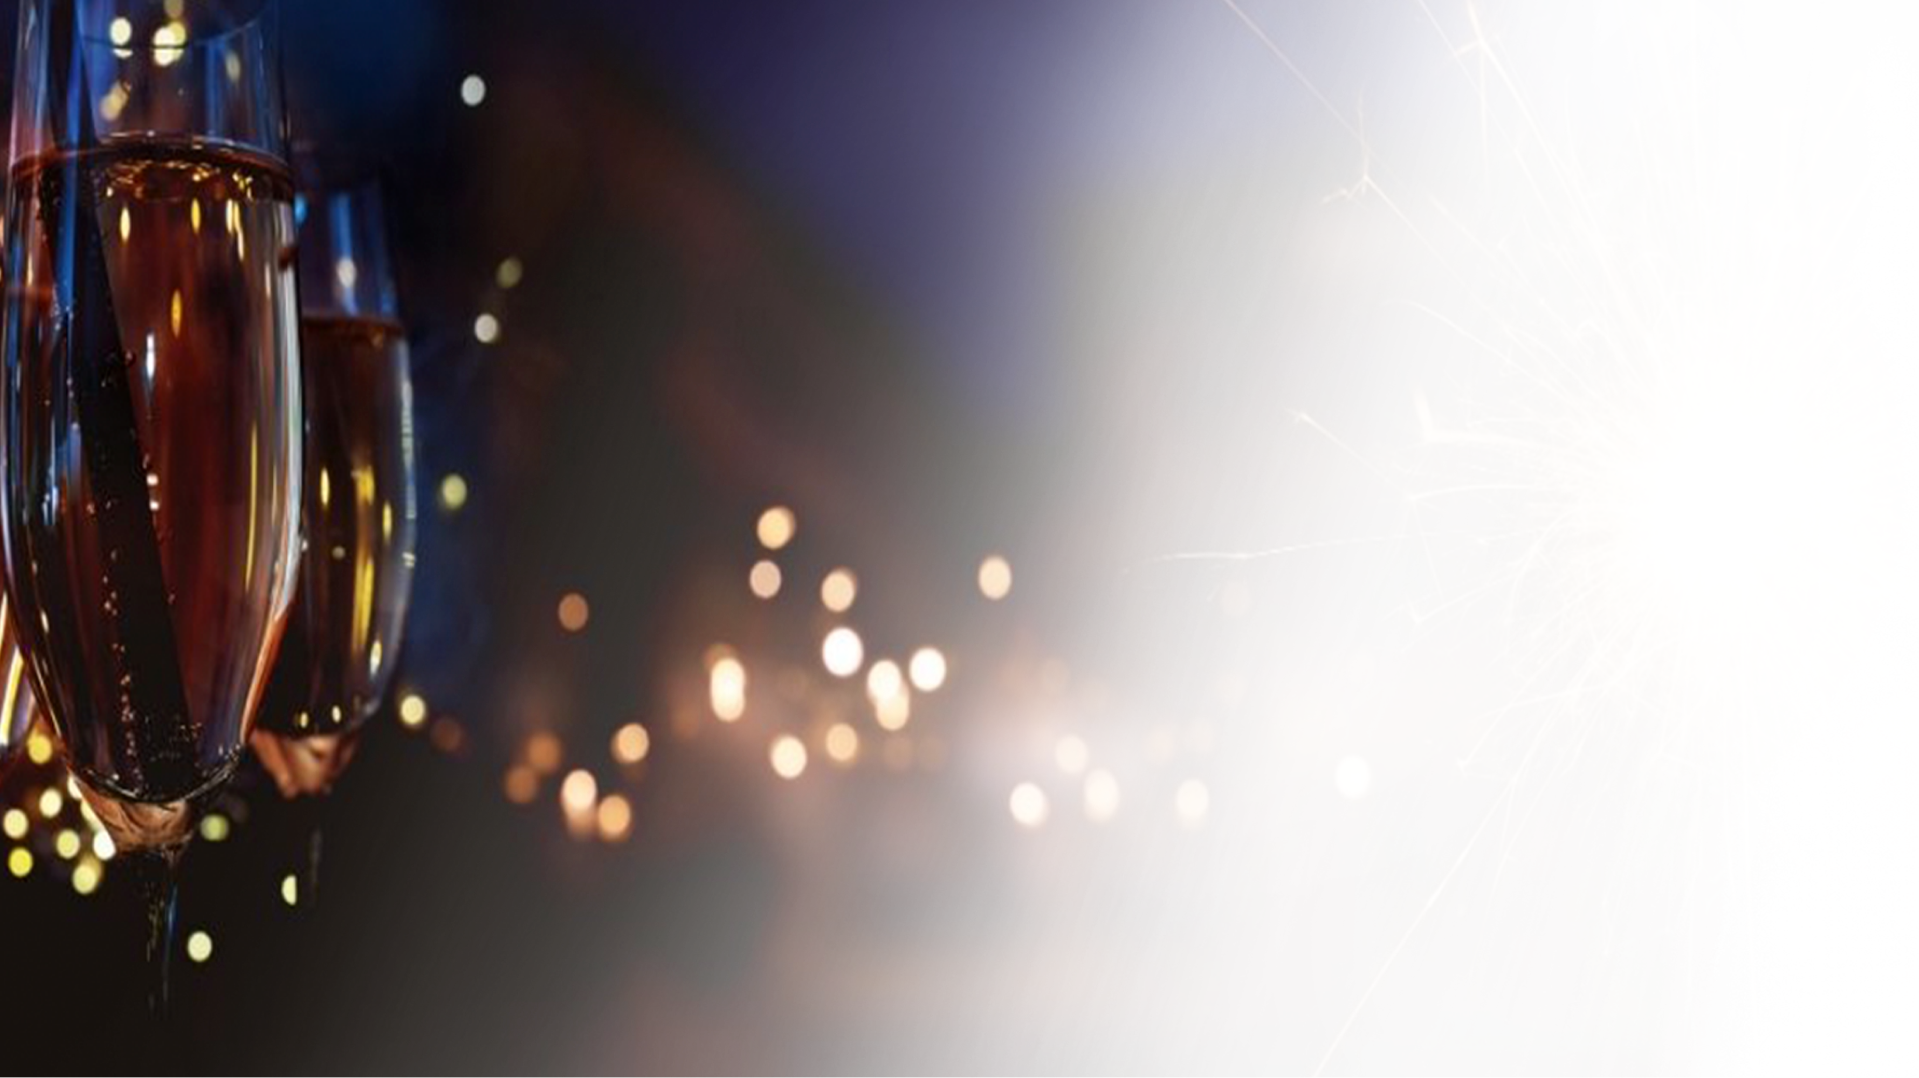
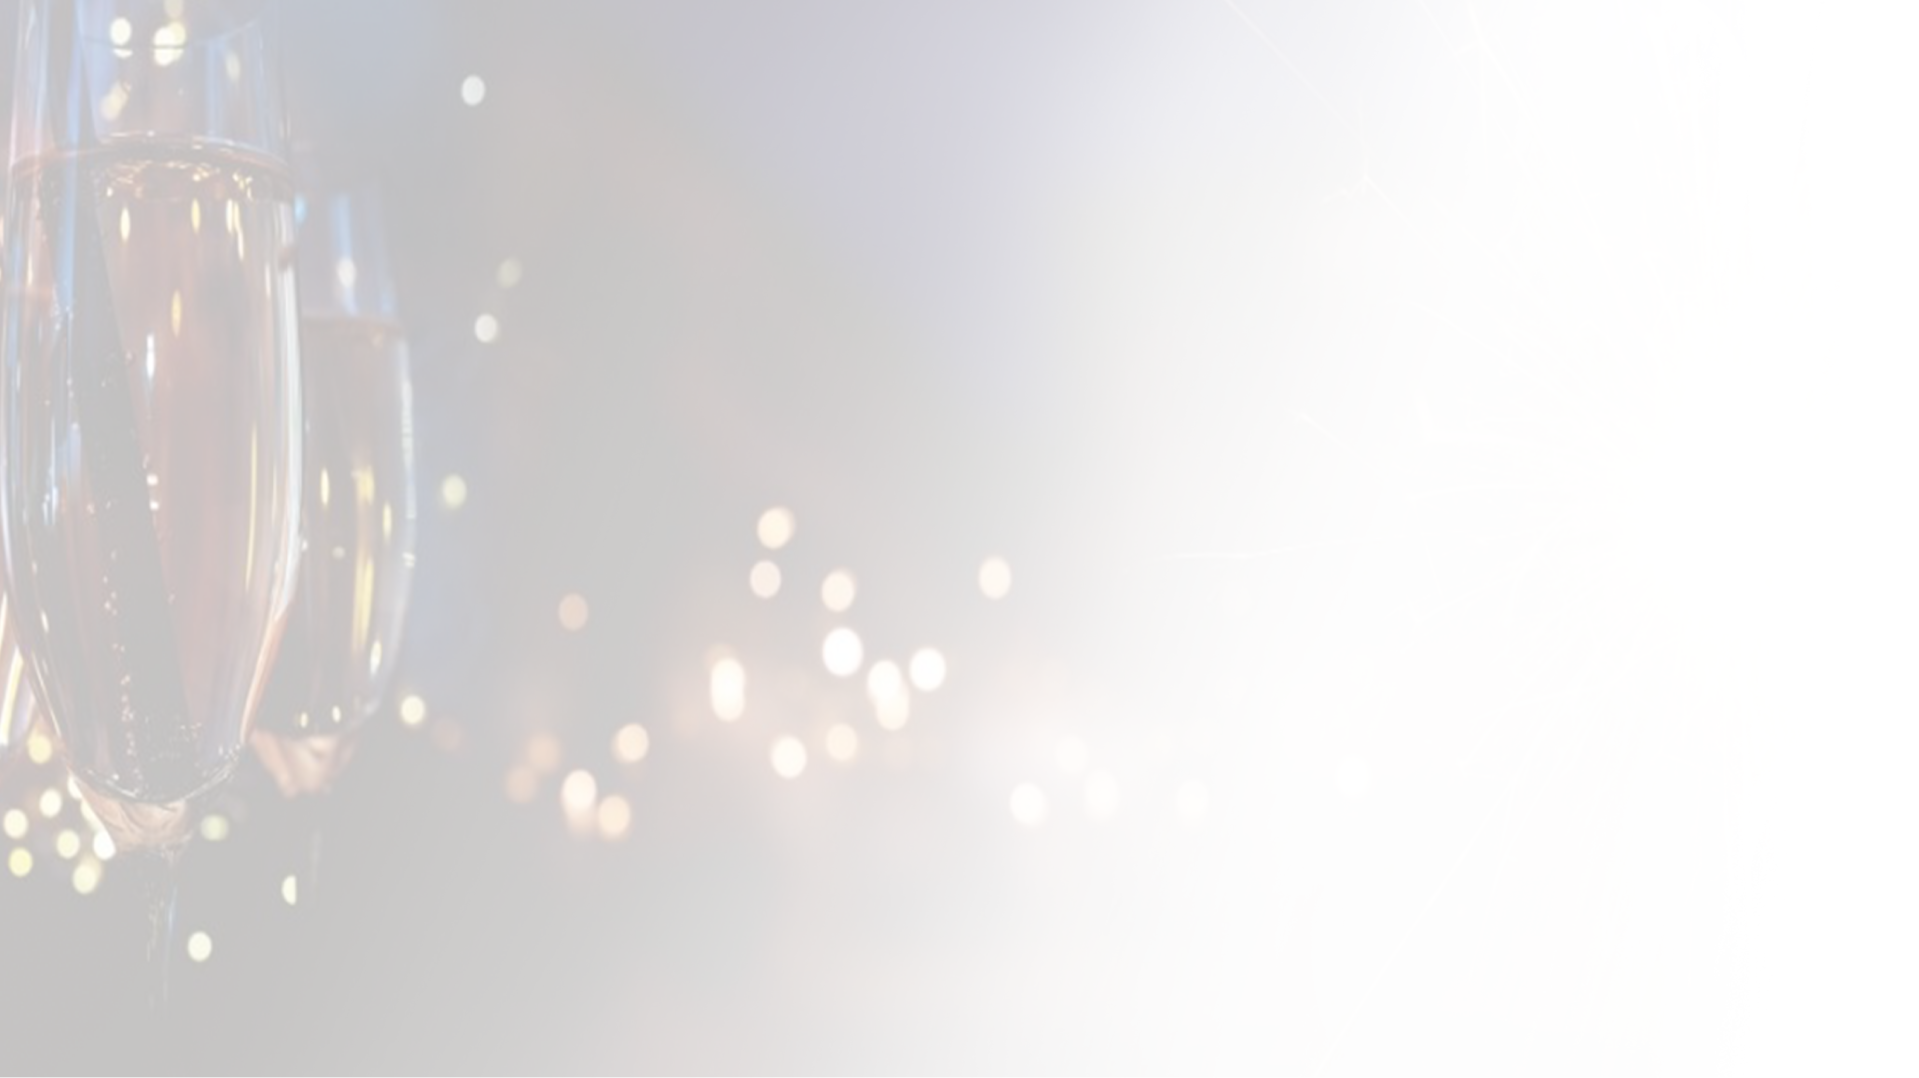
Update Gala

diff --git a/src/components/Gala/Gala.jsx b/src/components/Gala/Gala.jsx
@@ -1,62 +1,81 @@
-// import TicketGala from "../assets/forPages/ticketGala.png"
-import TicketGala from "../../assets/ticketGala.png"
-import iconLocalisation from "../../assets/iconLocalisation.svg"
-import iconWhatsapp from "../../assets/iconWhatsapp.svg"
-import iconTelephone from "../../assets/iconTelephone.svg"
 import bgImage from "../../assets/forPages/backgroundImage.png"
+import { FontAwesomeIcon } from "@fortawesome/react-fontawesome";
+import { faMapMarkerAlt } from "@fortawesome/free-solid-svg-icons";
+import { faWhatsapp } from "@fortawesome/free-brands-svg-icons";
+import { faPhone } from "@fortawesome/free-solid-svg-icons";
 
 
 
 const Gala = () => {
   return (
-    <div className="container mx-auto py-20 " style={{ backgroundImage: `url(${bgImage})` }}>
+    <div className="container mx-auto py-20 " style={{ 
+        backgroundImage: `url(${bgImage})` ,
+        backgroundSize: 'cover',
+        // backgroundBlendMode: 'darken',
+    }}>
+        
+        <h2 className="text-base sm:text-lg md:text-xl lg:text-2xl xl:text-3xl
+                text-customGreen text-center font-bold mb-4 sm:mb-8 underline">DINER DE GALA - REMISE DES PRIX</h2>
+
       <div className="flex flex-col md:flex-row">
-        <div className="w-full md:w-1/2">
-            <div className="flex justify-center mb-8">
-                <img
-                    src={TicketGala}
-                    alt=""
-                    className="rounded object-cover mb-8 md:mb-0 "
-                />
-            </div>
-        </div>
 
-        <div className="w-full md:w-1/2 flex justify-center">
+        <div className="w-full md:w-2/3 flex justify-center p-4">
             <div className="flex flex-col">
-                <h2 className="flex justify-center text-customGreen font-bold text-4xl mb-5">DINER DE GALA</h2>
-
-                <div className="flex justify-center mb-5">
+               
+                <div className="flex justify-start mt-4">
                     <span 
-                        className="bg-customGreen text-white text-3xl tracking-tight py-2 px-4 lg:items-start">
+                        className="bg-customGreen text-white tracking-tight py-2 px-4 lg:items-start
+                            text-base sm:text-lg md:text-xl lg:text-2xl xl:text-3xl
+                        ">
                         SAMEDI 30 NOVEMBRE 2024
                     </span>
                 </div>
 
-                <p className="flex justify-center text-customGreen font-bold text-4xl mb-5">À 20H PRÉCISES</p>
+                <p className="flex justify-start text-customGreen font-bold 
+                    text-base sm:text-lg md:text-xl lg:text-2xl xl:text-3xl mt-5
+                ">À 20H PRÉCISES</p>
 
-                <div className="flex flex-row justify-center">
-                    <div className="">
-                        <img src={iconLocalisation} alt="" className="" style={{width: 61, height: 61}} />
+                <div className="flex flex-row gap-2 items-center justify-start mt-6
+                    mx-auto max-w-full sm:max-w-md md:max-w-lg lg:max-w-1xl xl:max-w-1xl
+                ">
+                    <div className=" ">
+                        <FontAwesomeIcon icon={faMapMarkerAlt} color="black" size="2x" />
                     </div>
-                    <div className=" flex items-center">
-                        <h3 className="text-customBlack font-bold  " style={{fontSize: 24}}>SALLE DES FÊTES DE CHANT D’OISEAU, COTONOU, BÉNIN</h3>
+                    <div className=" ">
+                        <h3 className="text-base sm:text-lg md:text-xl lg:text-2xl xl:text-3xl 
+                        text-customBlack font-bold">SALLE DES FÊTES DE CHANT D’OISEAU, COTONOU, BÉNIN</h3>
                     </div>
                 </div>
 
-                <div className="flex justify-center mb-8">
-                    <h3 
-                        className="bg-customGreen text-customYellow text-center text-3xl tracking-tight py-2 px-4 cursor-pointer">
-                        COMMANDEZ VOS TICKETS
-                    </h3>
-                </div>
+                <div className="flex flex-row gap-2 items-center justify-center mt-6">                    
+                    {/* Icône WhatsApp en vert */}
+                    <FontAwesomeIcon icon={faWhatsapp} color="#25D366" size="2x" />
 
-                <div className="flex flex-row gap-2 justify-center">                    
-                    <img src={iconWhatsapp} alt="" className="" />
-                    <img src={iconTelephone} alt="" className="" />
-                    <p className="text-customGreen font-bold flex items-center text-3xl" >
-                        <span className="mr-2 " style={{fontSize: 16}} >+229 </span> 98 82 63 63 / 47 47 47 39
+                    {/* Icône d'appel en noir */}
+                    <FontAwesomeIcon icon={faPhone} color="black" size="2x" />
+                    <p className="text-base sm:text-lg md:text-xl lg:text-2xl xl:text-3xl 
+                        text-customGreen font-bold flex items-center" >
+                        <span className="mr-2">+229 </span> 98 82 63 63 / 47 47 47 39
                     </p>
                 </div>
+            </div>
+        </div>
+
+        <div className="w-full md:w-1/2 p-4 items-start">
+            <div className="flex flex-col  ">
+                <div className="text-base sm:text-lg md:text-xl lg:text-2xl xl:text-3xl font-bold ">
+                    <h2 className="">ENTRÉE GALA: 10.000F</h2>
+                    <h2 className="">TICKET TOMBOLA: 1.000F, 2.000F</h2>
+                    {/* <h2 className="">TICKET STAND: 20.000F</h2> */}
+                    <h2 className="">INSCRIPTION POUR LE CONCOURS: 15.000F</h2>
+                </div>
+            </div>
+
+            <div className="flex  mt-4">
+                <h3 
+                    className="bg-customGreen text-customYellow text-center text-3xl tracking-tight py-2 px-4 cursor-pointer">
+                    COMMANDEZ VOS TICKETS
+                </h3>
             </div>
         </div>
 
@@ -67,3 +86,75 @@ const Gala = () => {
 };
 
 export default Gala;
+
+////////////////
+
+
+// import TicketGala from "../../assets/ticketGala.png"
+// import iconLocalisation from "../../assets/iconLocalisation.svg"
+// import iconWhatsapp from "../../assets/iconWhatsapp.svg"
+// import iconTelephone from "../../assets/iconTelephone.svg"
+// import bgImage from "../../assets/forPages/backgroundImage.png"
+
+
+
+// const Gala = () => {
+//   return (
+//     <div className="container mx-auto py-20 " style={{ backgroundImage: `url(${bgImage})` }}>
+//       <div className="flex flex-col md:flex-row">
+//         <div className="w-full md:w-1/2">
+//             <div className="flex justify-center mb-8">
+//                 <img
+//                     src={TicketGala}
+//                     alt=""
+//                     className="rounded object-cover mb-8 md:mb-0 "
+//                 />
+//             </div>
+//         </div>
+
+//         <div className="w-full md:w-1/2 flex justify-center">
+//             <div className="flex flex-col">
+//                 <h2 className="flex justify-center text-customGreen font-bold text-4xl mb-5">DINER DE GALA</h2>
+
+//                 <div className="flex justify-center mb-5">
+//                     <span 
+//                         className="bg-customGreen text-white text-3xl tracking-tight py-2 px-4 lg:items-start">
+//                         SAMEDI 30 NOVEMBRE 2024
+//                     </span>
+//                 </div>
+
+//                 <p className="flex justify-center text-customGreen font-bold text-4xl mb-5">À 20H PRÉCISES</p>
+
+//                 <div className="flex flex-row justify-center">
+//                     <div className="">
+//                         <img src={iconLocalisation} alt="" className="" style={{width: 61, height: 61}} />
+//                     </div>
+//                     <div className=" flex items-center">
+//                         <h3 className="text-customBlack font-bold  " style={{fontSize: 24}}>SALLE DES FÊTES DE CHANT D’OISEAU, COTONOU, BÉNIN</h3>
+//                     </div>
+//                 </div>
+
+//                 <div className="flex justify-center mb-8">
+//                     <h3 
+//                         className="bg-customGreen text-customYellow text-center text-3xl tracking-tight py-2 px-4 cursor-pointer">
+//                         COMMANDEZ VOS TICKETS
+//                     </h3>
+//                 </div>
+
+//                 <div className="flex flex-row gap-2 justify-center">                    
+//                     <img src={iconWhatsapp} alt="" className="" />
+//                     <img src={iconTelephone} alt="" className="" />
+//                     <p className="text-customGreen font-bold flex items-center text-3xl" >
+//                         <span className="mr-2 " style={{fontSize: 16}} >+229 </span> 98 82 63 63 / 47 47 47 39
+//                     </p>
+//                 </div>
+//             </div>
+//         </div>
+
+        
+//       </div>
+//     </div>
+//   );
+// };
+
+// export default Gala;
